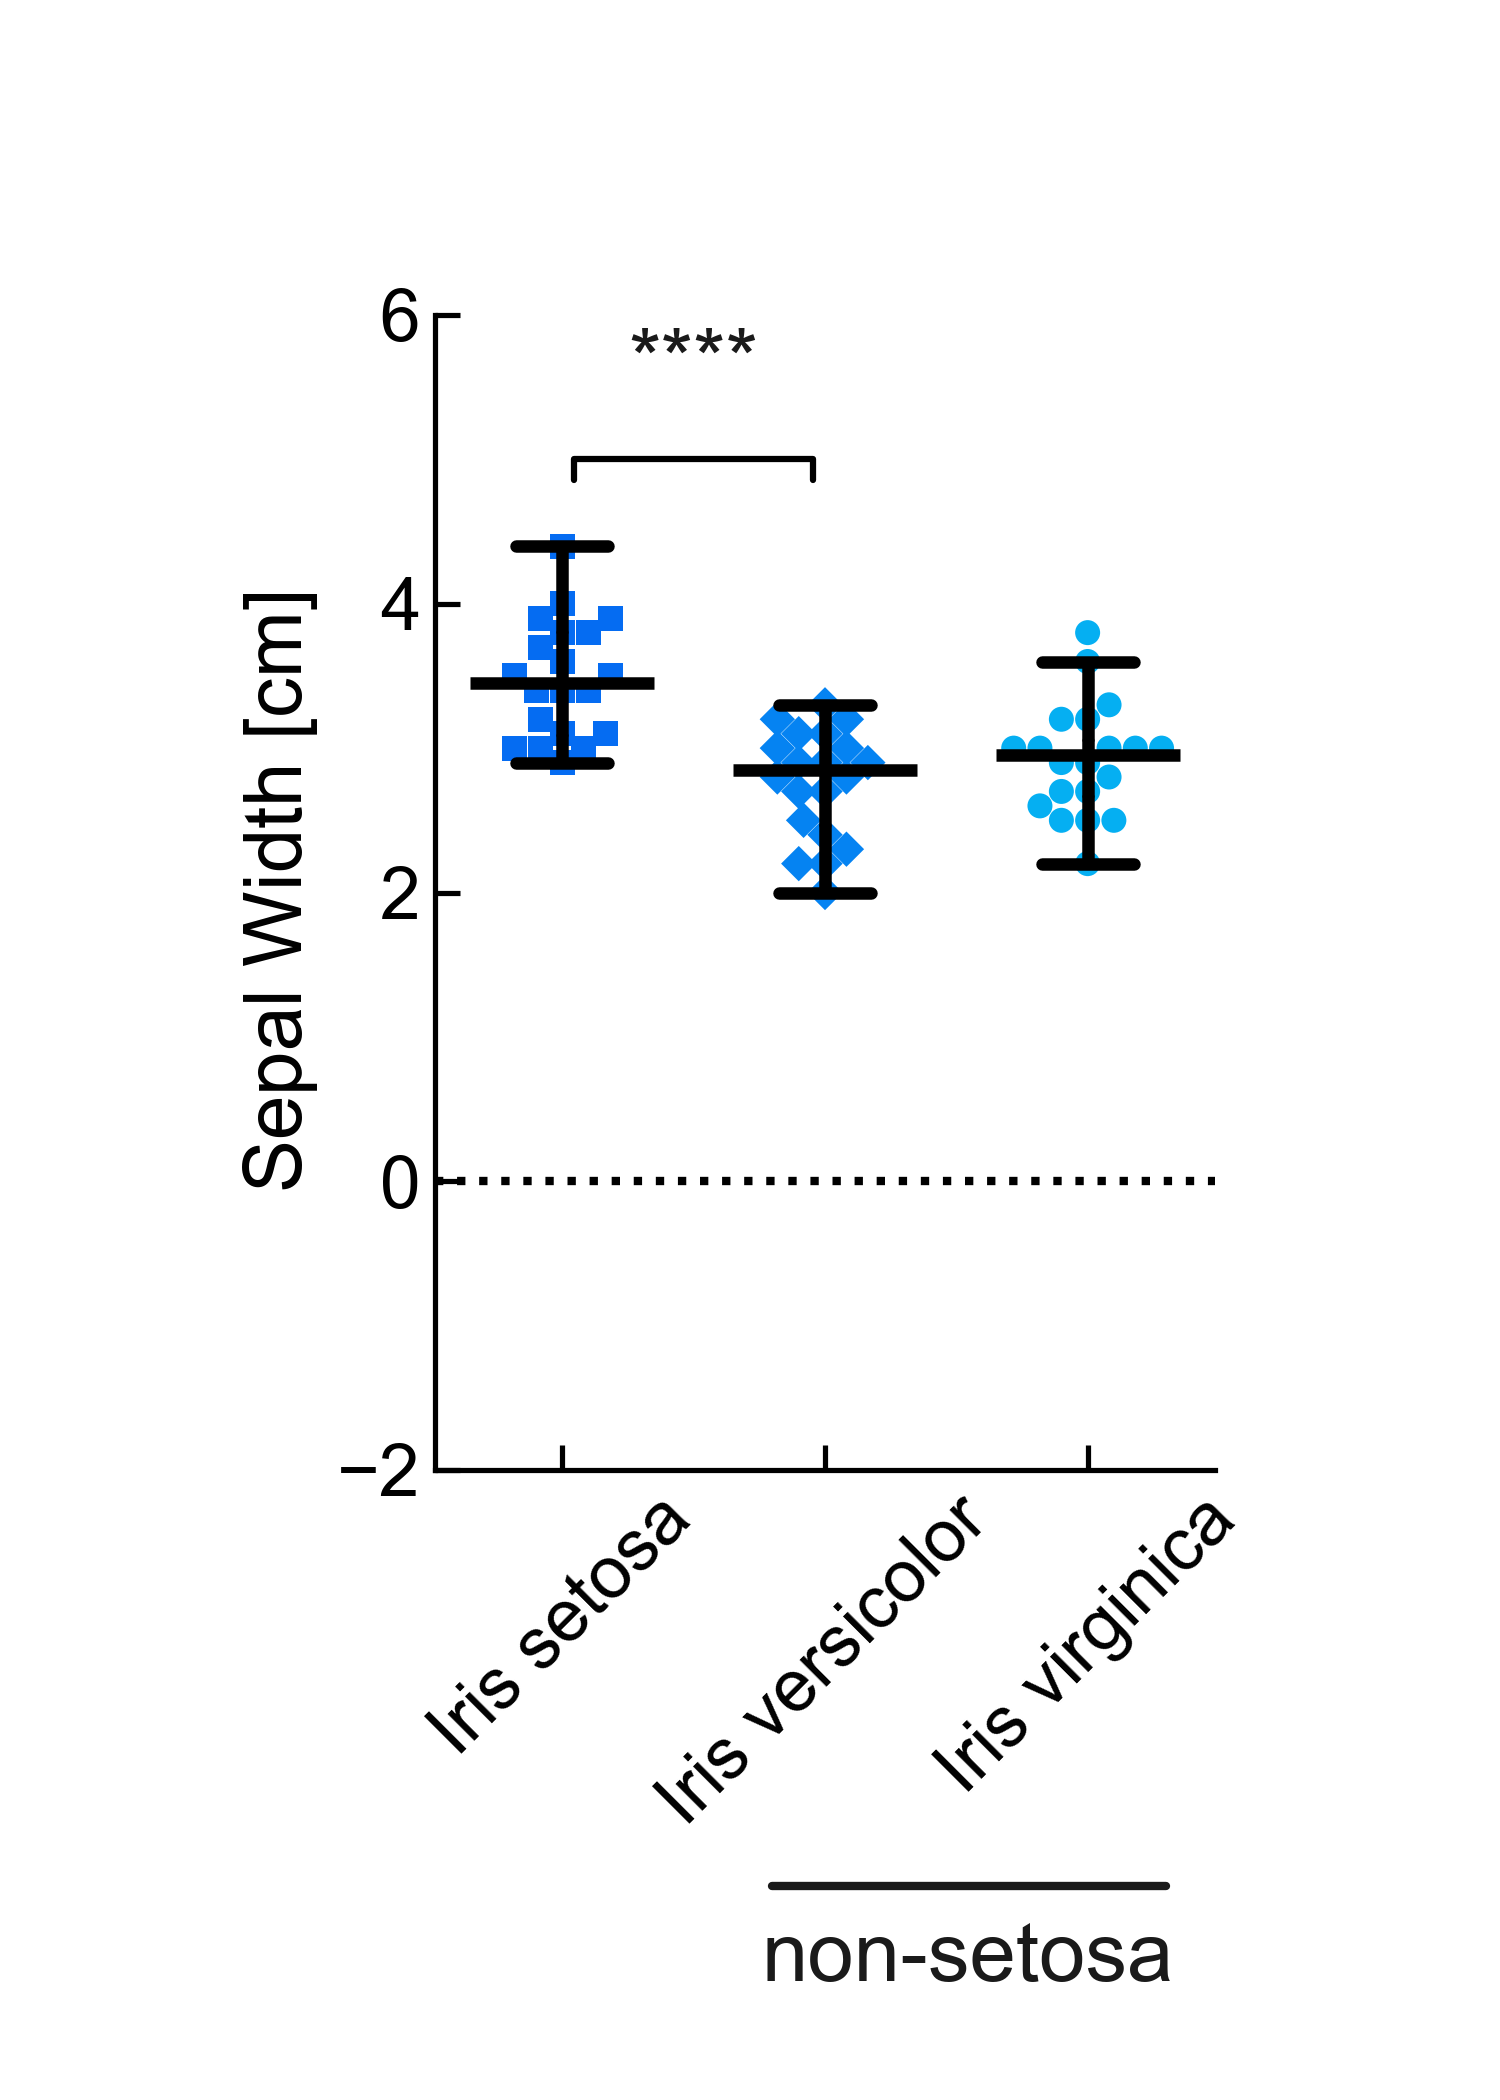
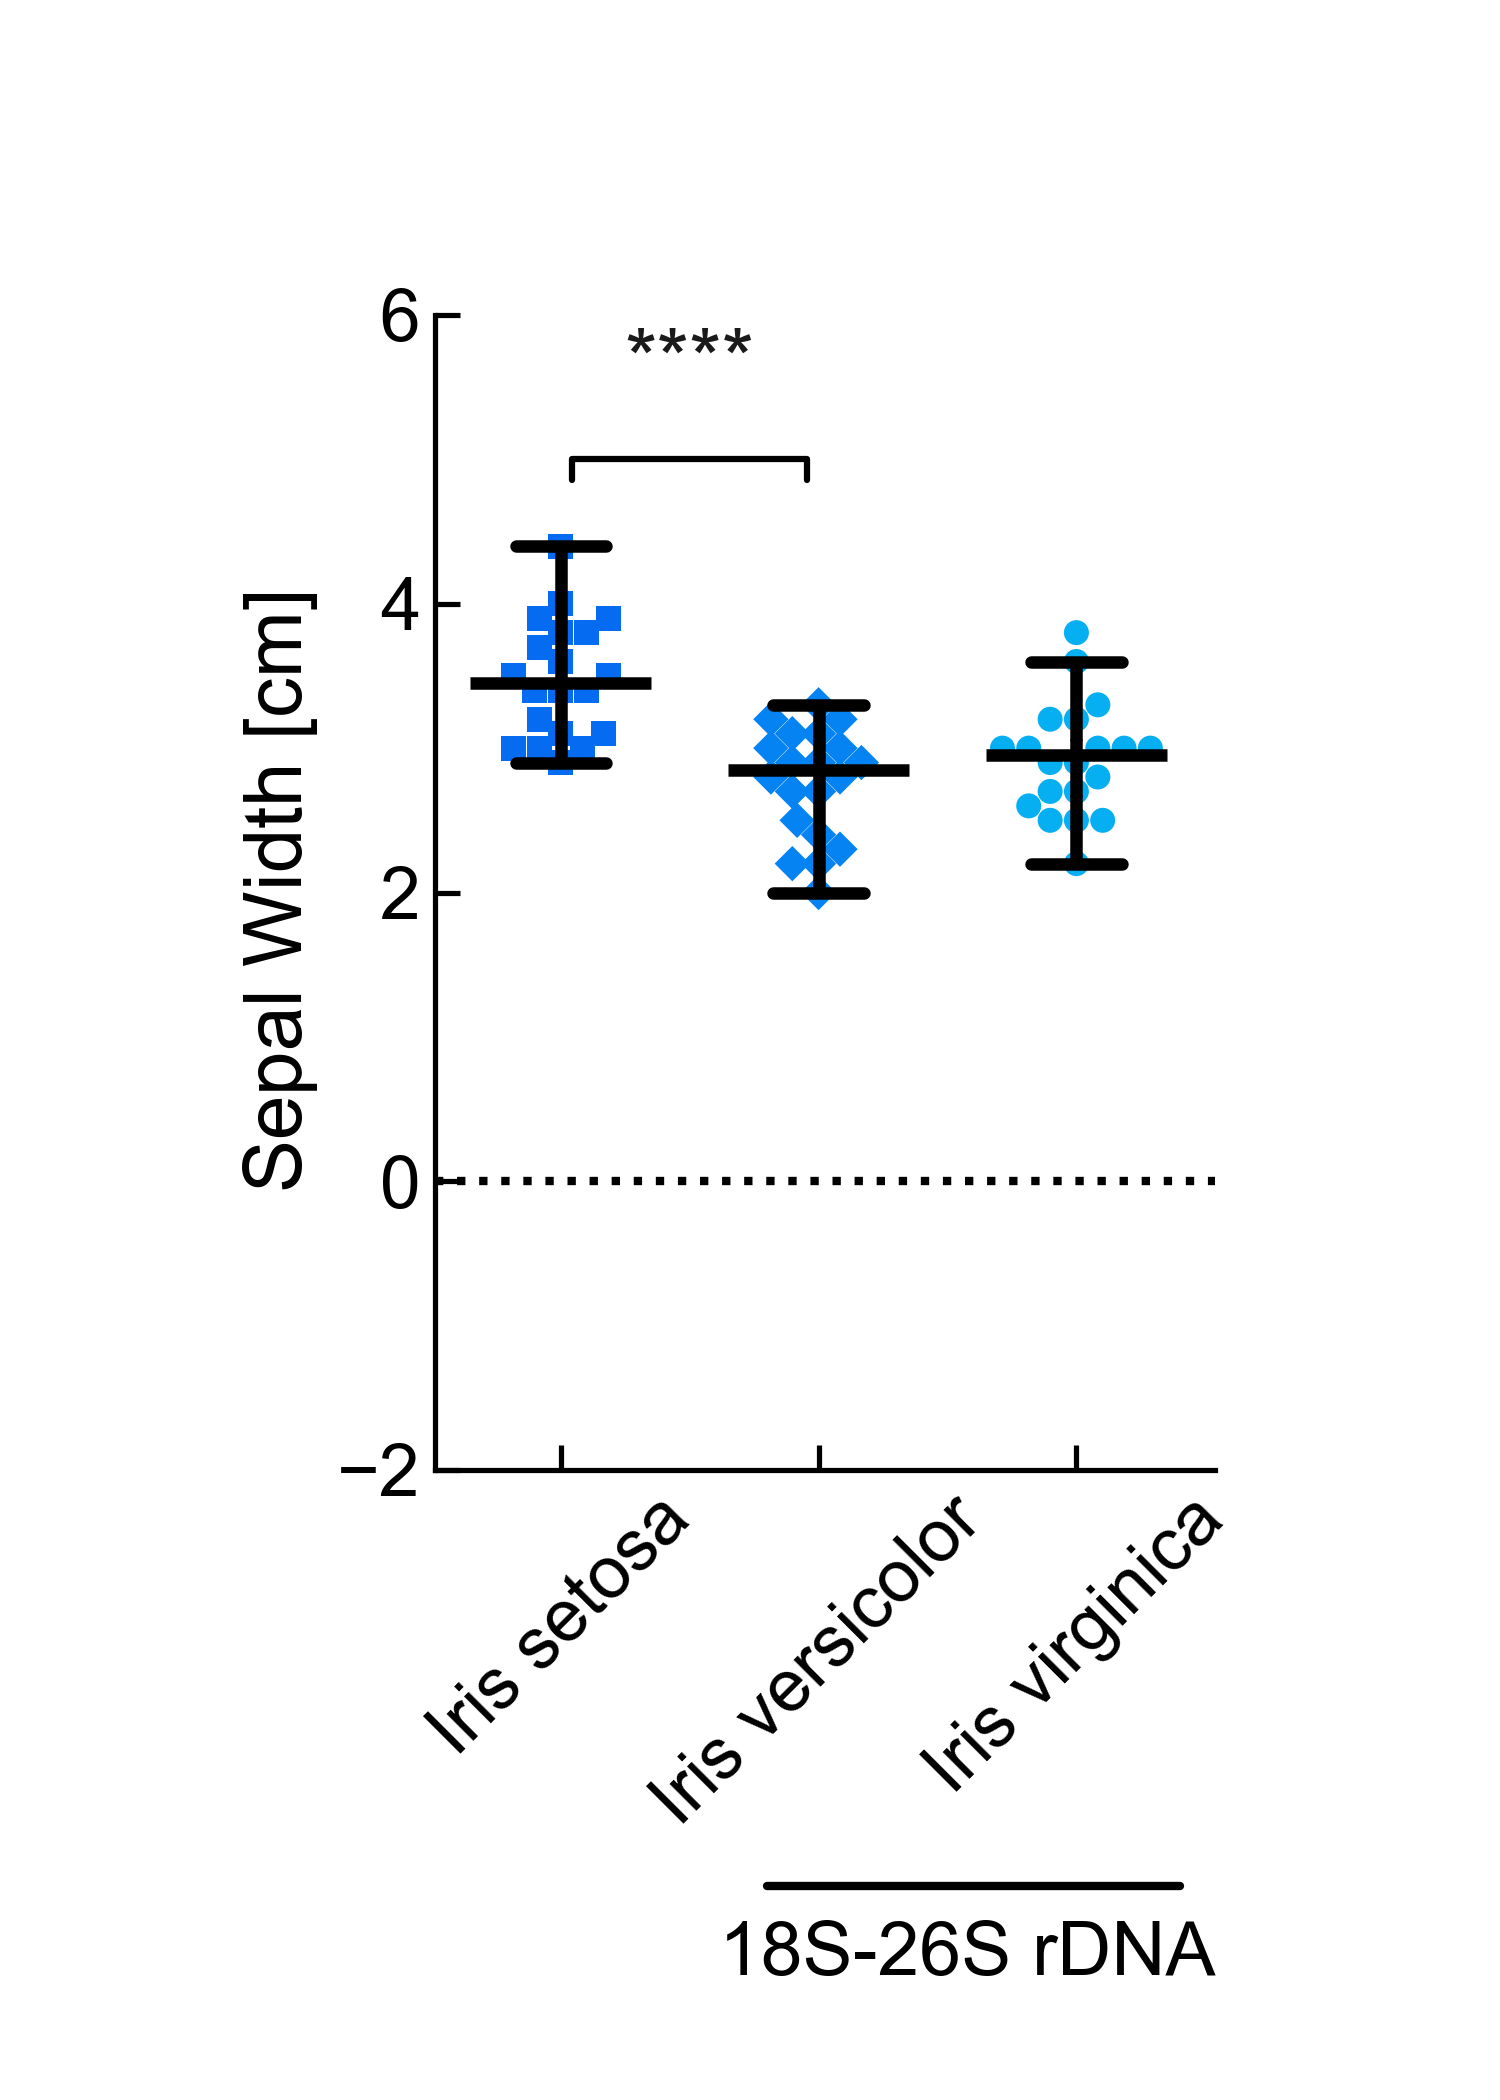
Annotation modification.

diff --git a/quartiles_plot.py b/quartiles_plot.py
@@ -79,7 +79,7 @@ def generate_plot(df,
                 for a2 in c[q::n_hues]:
                     a2.set_paths([current_mk])
 
-        ax.axhline(y=0, color='k', linestyle=':', linewidth=2)
+        ax.axhline(y=0, color='black', linestyle=':', linewidth=2)
 
         # annotation significance method 1 (using mannwhitneyu test on the data)
         current_df = df
@@ -151,12 +151,14 @@ def generate_plot(df,
 
         # add global title
         if super_title is not None:
-            fig.suptitle(super_title, fontsize="large", color="k")
+            fig.suptitle(super_title, fontsize="large", color="black")
 
         # draw line and text below group labels
         trans = ax.get_xaxis_transform()
-        ax.plot([0.8, 2.3], [-.36, -.36], color="k", transform=trans, clip_on=False, linewidth=2)
-        plt.figtext(0.645, 0.085, "non-setosa", ha="center", va="top", fontsize=20, color="k")
+        ax.plot([0.8, 2.4], [-.36, -.36],
+                color="black", transform=trans, clip_on=False, linewidth=2)
+        plt.figtext(0.645, 0.085, "18S-26S rDNA",
+                    ha="center", va="top", fontsize=18, color="black")
 
 
 if __name__ == '__main__':
